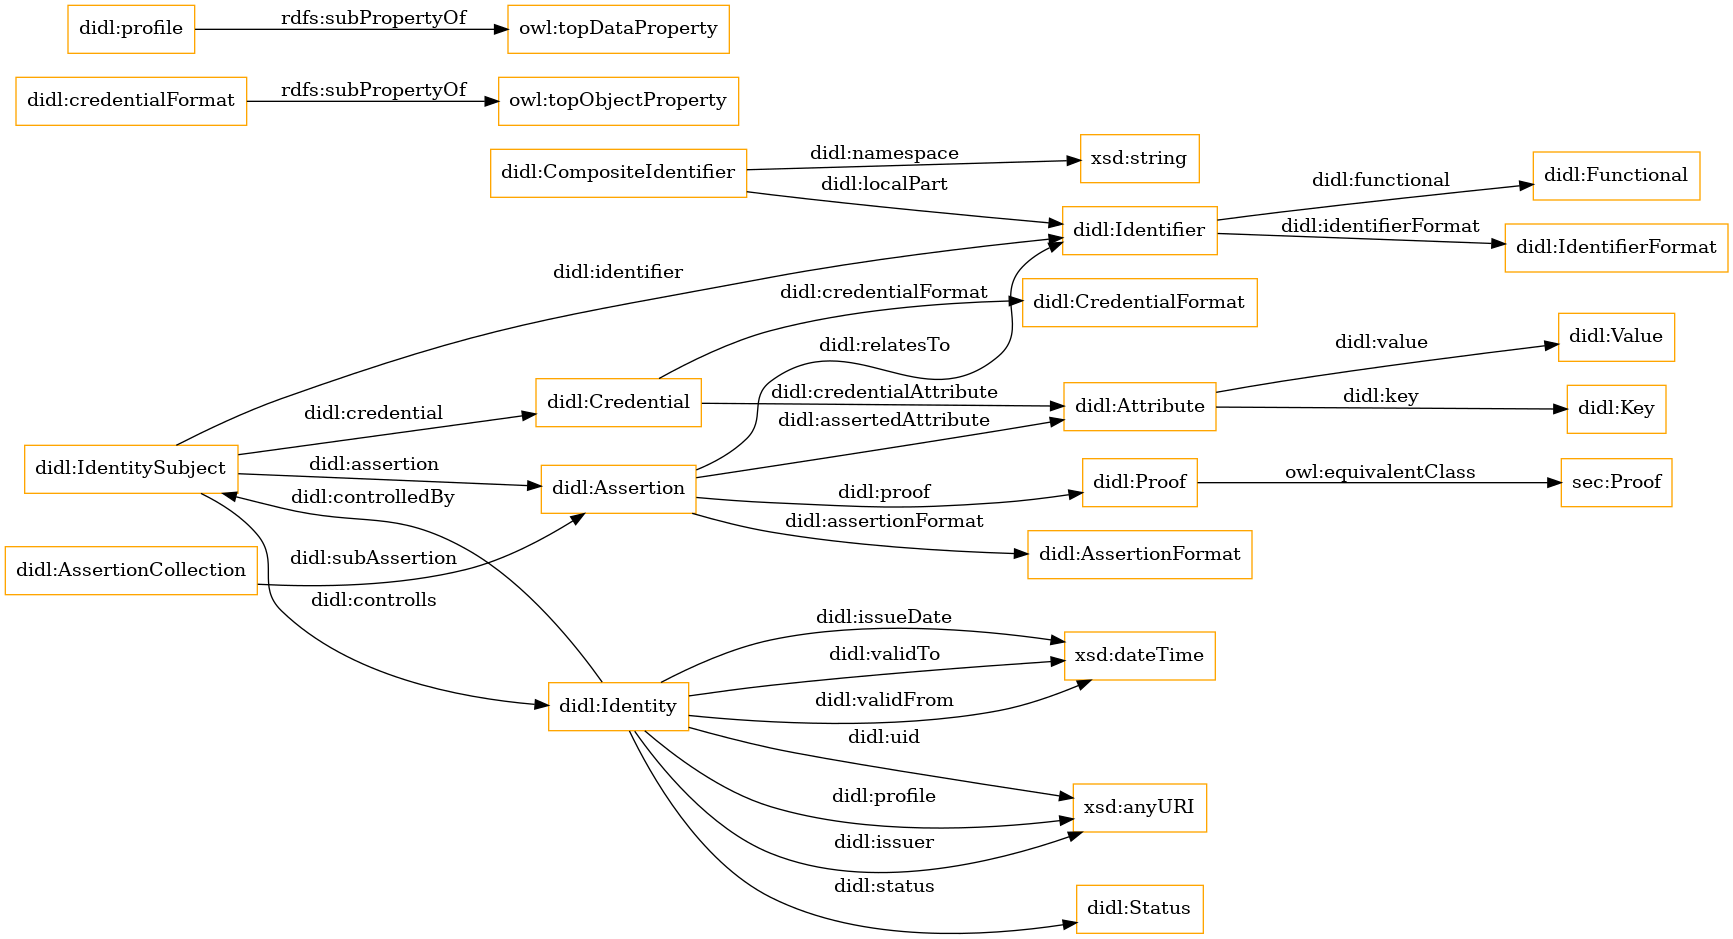
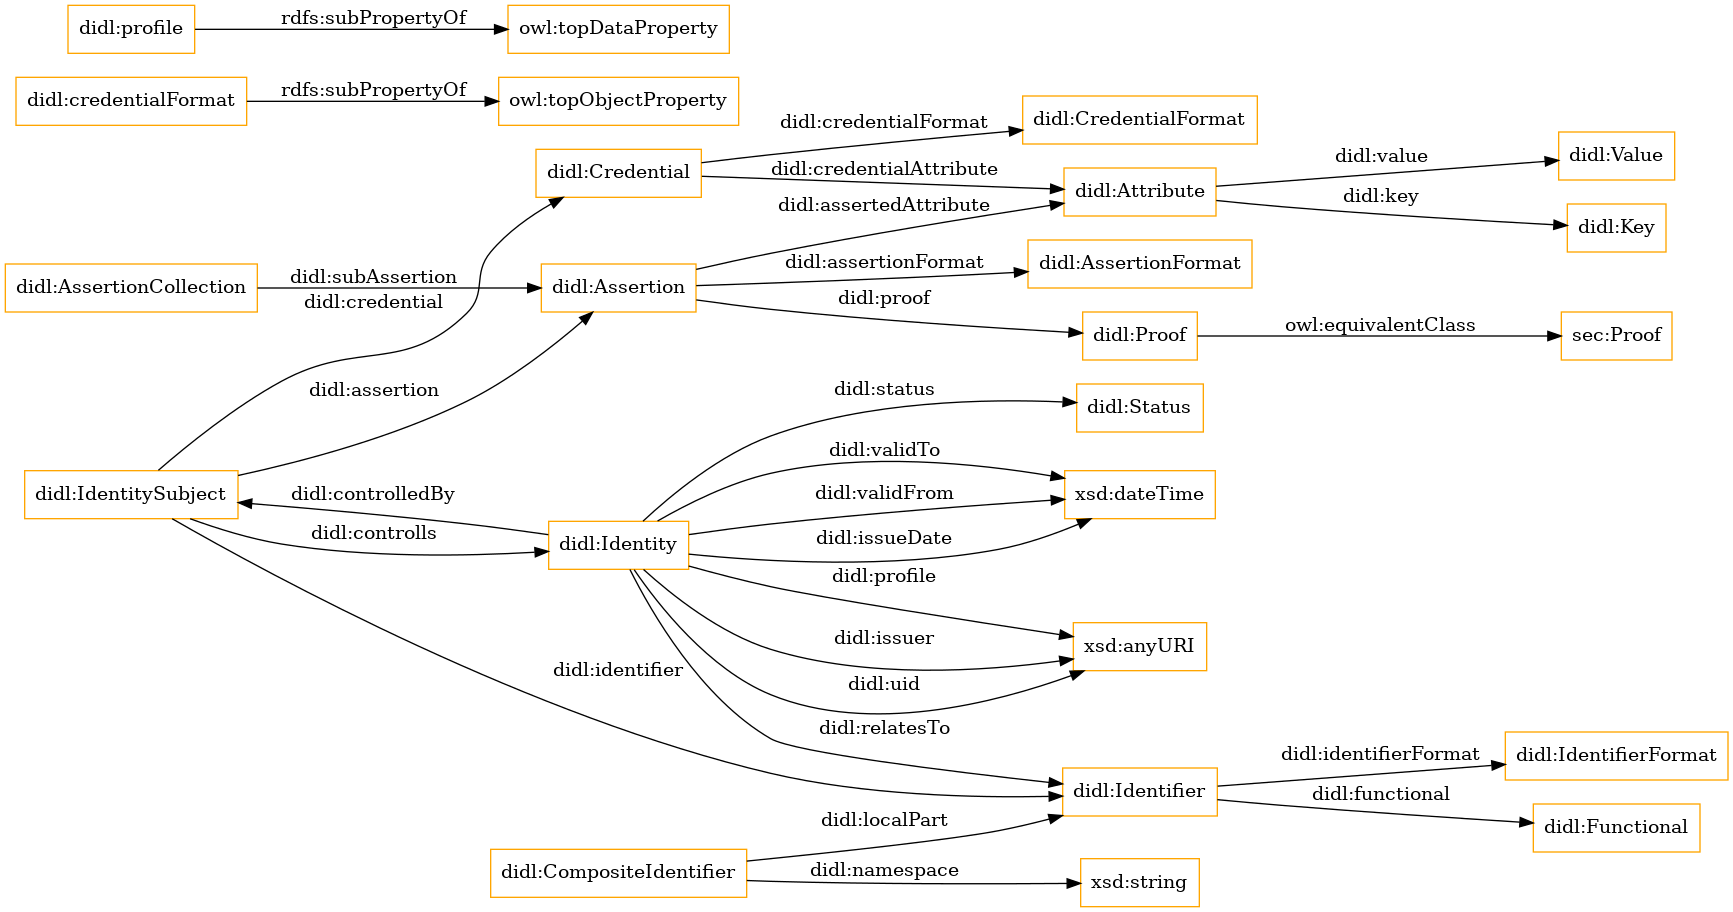
automated change

diff --git a/OnToology/didl.ttl/documentation/sections/crossref-en.html b/OnToology/didl.ttl/documentation/sections/crossref-en.html
@@ -92,7 +92,6 @@ This section provides details for each class and property defined by Digital Ide
             <a href="#https://w3id.org/def/didl#assertedAttribute" title="https://w3id.org/def/didl#assertedAttribute">assertedAttribute</a>
             <sup class="type-op" title="object property">op</sup>, <a href="#https://w3id.org/def/didl#assertionFormat" title="https://w3id.org/def/didl#assertionFormat">assertionFormat</a>
             <sup class="type-op" title="object property">op</sup>, <a href="#https://w3id.org/def/didl#proof" title="https://w3id.org/def/didl#proof">proof</a>
-            <sup class="type-op" title="object property">op</sup>, <a href="#https://w3id.org/def/didl#relatesTo" title="https://w3id.org/def/didl#relatesTo">relatesTo</a>
             <sup class="type-op" title="object property">op</sup>
          </dd>
          <dt>is in range of</dt>
@@ -233,7 +232,6 @@ This section provides details for each class and property defined by Digital Ide
          <dd>
             <a href="#https://w3id.org/def/didl#credentialAttribute" title="https://w3id.org/def/didl#credentialAttribute">credentialAttribute</a>
             <sup class="type-op" title="object property">op</sup>, <a href="#https://w3id.org/def/didl#credentialFormat" title="https://w3id.org/def/didl#credentialFormat">credentialFormat</a>
-            <sup class="type-op" title="object property">op</sup>, <a href="#https://w3id.org/def/didl#relatesTo" title="https://w3id.org/def/didl#relatesTo">relatesTo</a>
             <sup class="type-op" title="object property">op</sup>
          </dd>
          <dt>is in range of</dt>
@@ -403,7 +401,8 @@ This section provides details for each class and property defined by Digital Ide
             <sup class="type-op" title="object property">op</sup>, <a href="#https://w3id.org/def/didl#issueDate" title="https://w3id.org/def/didl#issueDate">issueDate</a>
             <sup class="type-dp" title="data property">dp</sup>, <a href="#https://w3id.org/def/didl#issuer" title="https://w3id.org/def/didl#issuer">issuer</a>
             <sup class="type-dp" title="data property">dp</sup>, <a href="#https://w3id.org/def/didl#profile" title="https://w3id.org/def/didl#profile">profile</a>
-            <sup class="type-dp" title="data property">dp</sup>, <a href="#https://w3id.org/def/didl#status" title="https://w3id.org/def/didl#status">status</a>
+            <sup class="type-dp" title="data property">dp</sup>, <a href="#https://w3id.org/def/didl#relatesTo" title="https://w3id.org/def/didl#relatesTo">relatesTo</a>
+            <sup class="type-op" title="object property">op</sup>, <a href="#https://w3id.org/def/didl#status" title="https://w3id.org/def/didl#status">status</a>
             <sup class="type-op" title="object property">op</sup>, <a href="#https://w3id.org/def/didl#uid" title="https://w3id.org/def/didl#uid">uid</a>
             <sup class="type-dp" title="data property">dp</sup>, <a href="#https://w3id.org/def/didl#validFrom" title="https://w3id.org/def/didl#validFrom">valid from</a>
             <sup class="type-dp" title="data property">dp</sup>, <a href="#https://w3id.org/def/didl#validTo" title="https://w3id.org/def/didl#validTo">valid to</a>
@@ -549,7 +548,8 @@ This section provides details for each class and property defined by Digital Ide
          </dd>
          <dt>has members</dt>
          <dd>
-            <a href="#https://w3id.org/def/didl#Signature" title="https://w3id.org/def/didl#Signature">Signature</a>
+            <a href="#https://w3id.org/def/didl#SessionKey" title="https://w3id.org/def/didl#SessionKey">SessionKey</a>
+            <sup class="type-ni" title="named individual">ni</sup>, <a href="#https://w3id.org/def/didl#Signature" title="https://w3id.org/def/didl#Signature">Signature</a>
             <sup class="type-ni" title="named individual">ni</sup>, <a href="#https://w3id.org/def/didl#SmartCard" title="https://w3id.org/def/didl#SmartCard">SmartCard</a>
             <sup class="type-ni" title="named individual">ni</sup>
          </dd>
@@ -1068,11 +1068,7 @@ This section provides details for each class and property defined by Digital Ide
          <dl>
             <dt>has domain</dt>
             <dd>
-               <a href="#https://w3id.org/def/didl#Assertion" title="https://w3id.org/def/didl#Assertion">Assertion</a>
-               <sup class="type-c" title="class">c</sup>
-            </dd>
-            <dd>
-               <a href="#https://w3id.org/def/didl#Credential" title="https://w3id.org/def/didl#Credential">Credential</a>
+               <a href="#https://w3id.org/def/didl#Identity" title="https://w3id.org/def/didl#Identity">Identity</a>
                <sup class="type-c" title="class">c</sup>
             </dd>
             <dt>has range</dt>
@@ -1532,6 +1528,9 @@ This section provides details for each class and property defined by Digital Ide
       </li>
       <li>
          <a href="#https://w3id.org/def/didl#SessionIndex" title="https://w3id.org/def/didl#SessionIndex">SessionIndex</a>
+      </li>
+      <li>
+         <a href="#https://w3id.org/def/didl#SessionKey" title="https://w3id.org/def/didl#SessionKey">SessionKey</a>
       </li>
       <li>
          <a href="#https://w3id.org/def/didl#Signature" title="https://w3id.org/def/didl#Signature">Signature</a>
@@ -2460,6 +2459,25 @@ This section provides details for each class and property defined by Digital Ide
          <dt>belongs to</dt>
          <dd>
             <a href="#https://w3id.org/def/didl#Key" title="https://w3id.org/def/didl#Key">Key</a>
+            <sup class="type-c" title="class">c</sup>
+         </dd>
+      </dl>
+   </div>
+   <div class="entity" id="https://w3id.org/def/didl#SessionKey">
+      <h3>SessionKey<sup class="type-ni" title="named individual">ni</sup>
+         <span class="backlink"> back to <a href="#toc">ToC</a> or <a href="#namedindividuals">Named Individual ToC</a>
+         </span>
+      </h3>
+      <p>
+         <strong>IRI:</strong> https://w3id.org/def/didl#SessionKey</p>
+      <div class="comment">
+         <span class="markdown">A session-based key as a credential used for temporary authentication</span>
+      </div>
+      <dl class="description">
+         <dt>belongs to</dt>
+         <dd>
+            <a href="#https://w3id.org/def/didl#PossessionBasedCredential"
+               title="https://w3id.org/def/didl#PossessionBasedCredential">PossesionBasedCredential</a>
             <sup class="type-c" title="class">c</sup>
          </dd>
       </dl>

diff --git a/OnToology/didl.ttl/documentation/sections/overview-en.html b/OnToology/didl.ttl/documentation/sections/overview-en.html
@@ -305,6 +305,9 @@ This ontology has the following classes and properties.</span>
       <a href="#https://w3id.org/def/didl#SessionIndex" title="https://w3id.org/def/didl#SessionIndex">SessionIndex</a>
    </li>
    <li>
+      <a href="#https://w3id.org/def/didl#SessionKey" title="https://w3id.org/def/didl#SessionKey">SessionKey</a>
+   </li>
+   <li>
       <a href="#https://w3id.org/def/didl#Signature" title="https://w3id.org/def/didl#Signature">Signature</a>
    </li>
    <li>
